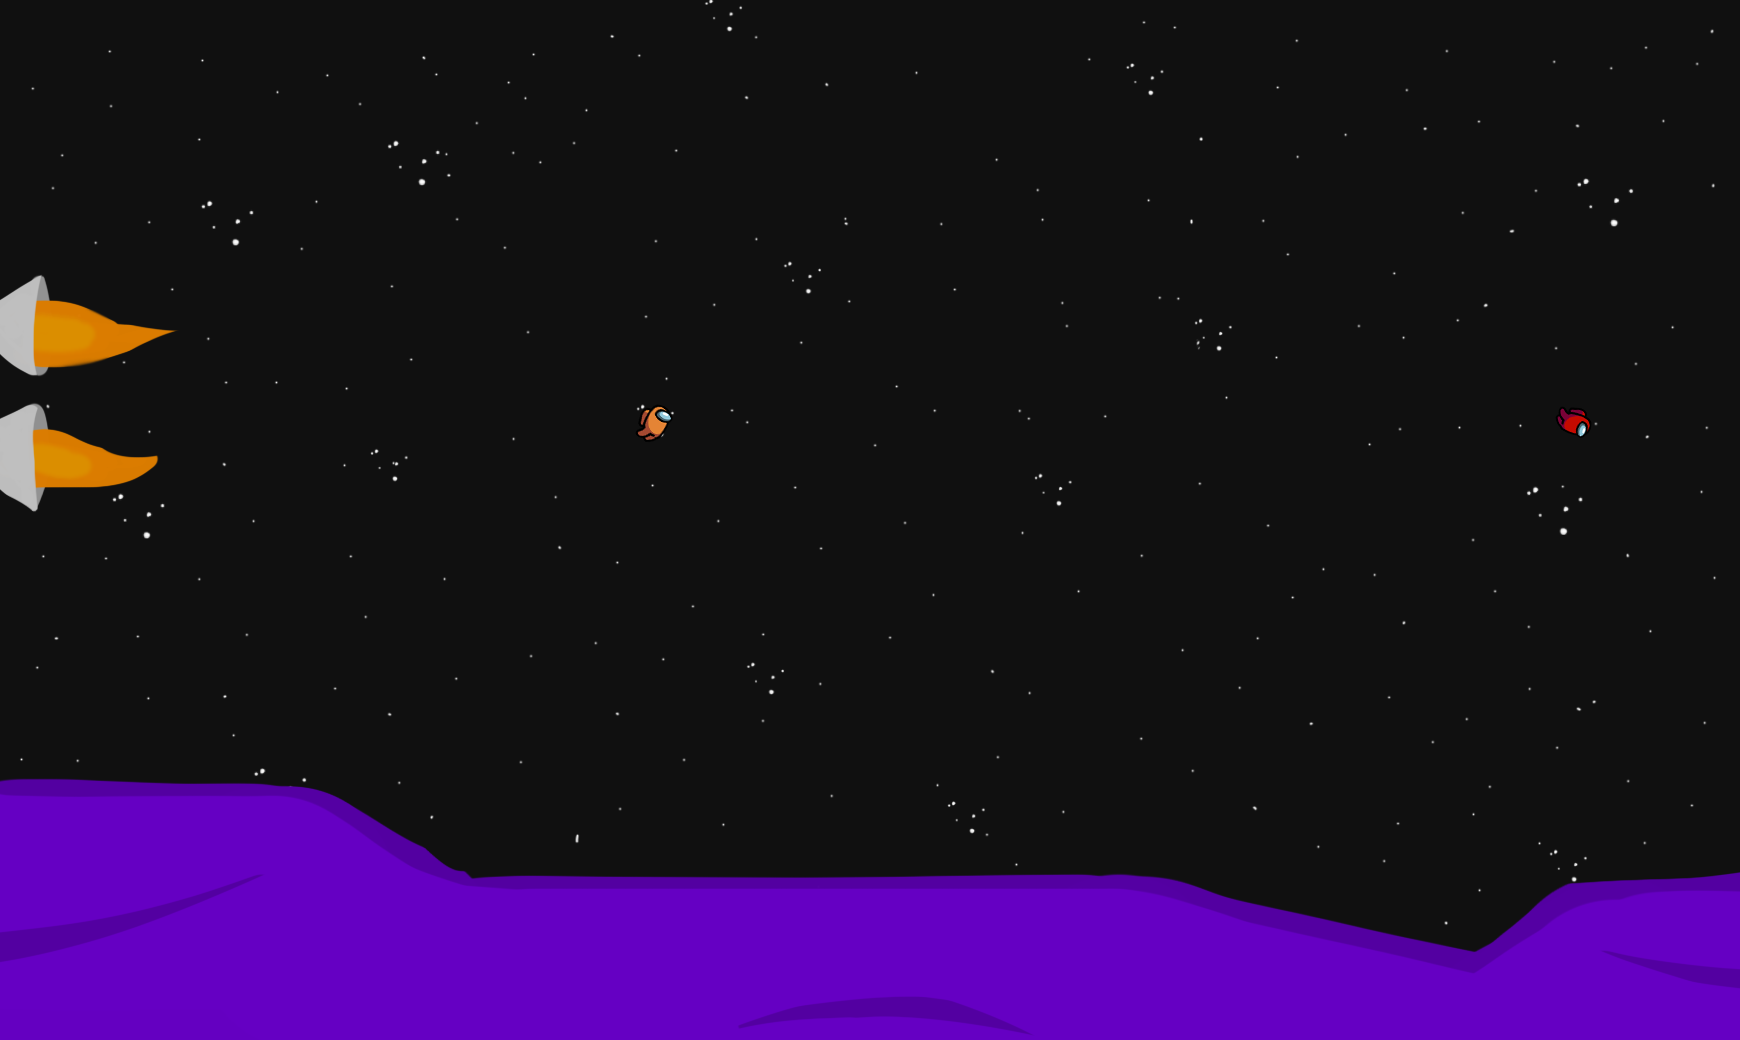
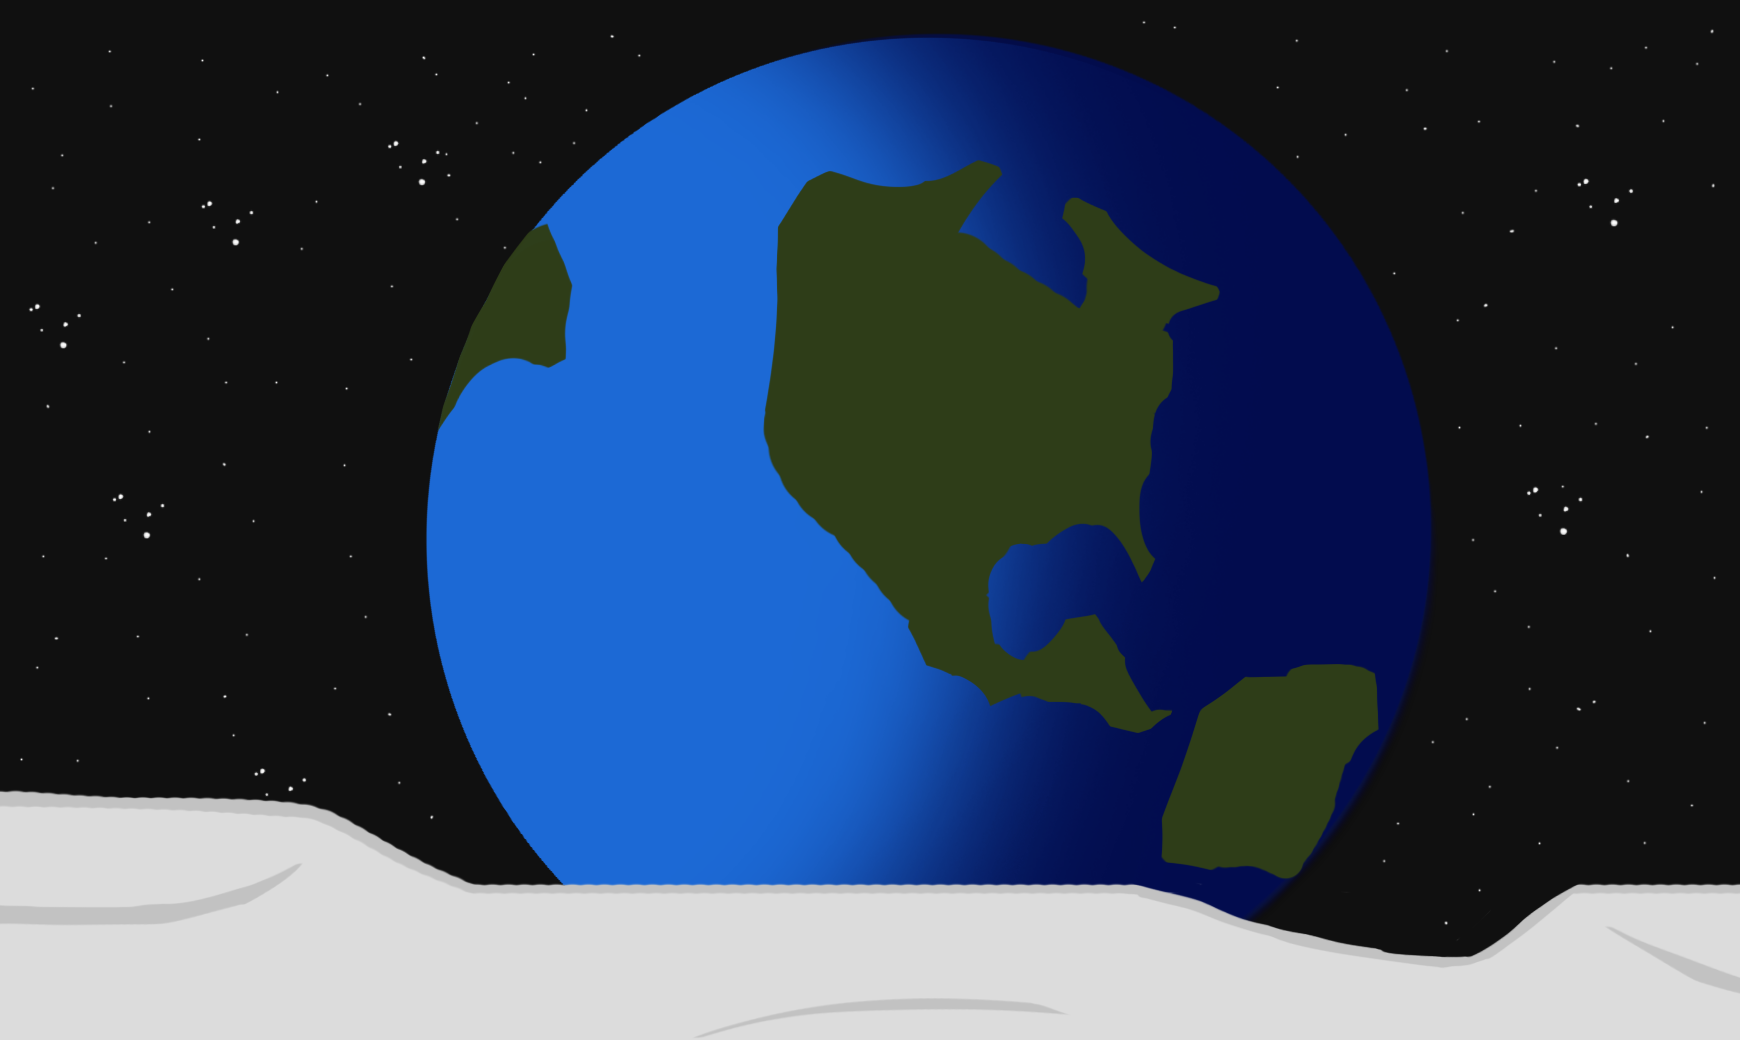
Ping pong
it pings and it bangs

diff --git a/js/level002.js b/js/level002.js
@@ -42,7 +42,7 @@ class Laser extends Phaser.Physics.Arcade.Sprite {
 		this.setActive(true);
 		this.setVisible(true);
 
-		this.setVelocityY(-2000);
+		this.setVelocityY(-2250);
         this.setScale(15);      
     }
     preUpdate(time, delta) {
@@ -56,11 +56,11 @@ class Laser extends Phaser.Physics.Arcade.Sprite {
 		}
 	}
 }
-export class Level001 extends Phaser.Scene {
+export class Level002 extends Phaser.Scene {
     constructor() {
-        super('Level001');
+        super('Level002');
         this.laserLimit = 0;
-        this.meteorScore = 0;
+        this.meteorsScore2 = 0;
 
         this.laserGroup;
     }
@@ -70,7 +70,7 @@ export class Level001 extends Phaser.Scene {
     }
 
     create() {
-        this.add.image(0, 0, 'background').setOrigin(0).setScale(5);
+        this.add.image(0, 0, 'background2').setOrigin(0).setScale(5);
 
         this.meteors = this.physics.add.group();
 
@@ -220,56 +220,56 @@ export class Level001 extends Phaser.Scene {
         meteors1333.destroy();
         laserGroup.destroy();
         console.log("7");
-        this.meteorScore++;
+        this.meteorsScore2++;
     }
     laserHitMeteors23333(laserGroup, meteors23333){
         this.laserLimit = 0; 
         meteors23333.destroy();
         laserGroup.destroy();
         console.log("6");
-        this.meteorScore++;
+        this.meteorsScore2++;
     }
     laserHitMeteors333(laserGroup, meteors333){
         this.laserLimit = 0; 
         meteors333.destroy();
         laserGroup.destroy();
         console.log("5");
-        this.meteorScore++;
+        this.meteorsScore2++;
     }
     laserHitMeteors3333(laserGroup, meteors3333){
         this.laserLimit = 0; 
         meteors3333.destroy();
         laserGroup.destroy();
         console.log("4");
-        this.meteorScore++;
+        this.meteorsScore2++;
     }
     laserHitMeteors3(laserGroup, meteors3){
         this.laserLimit = 0; 
         meteors3.destroy();
         laserGroup.destroy();
         console.log("3");
-        this.meteorScore++;
+        this.meteorsScore2++;
     }
     laserHitMeteors33(laserGroup, meteors33){
         //COUNT NUMBER UNTIL WIN YES
         this.laserLimit = 0; 
         meteors33.destroy();
         laserGroup.destroy();
-        this.meteorScore++;
+        this.meteorsScore2++;
     }
     laserHitMeteors533(laserGroup, meteors533){
         this.laserLimit = 0; 
         meteors533.destroy();
         laserGroup.destroy();
         console.log("2");
-        this.meteorScore++;
+        this.meteorsScore2++;
     }
     laserHitMeteors4433(laserGroup, meteors433){
         this.laserLimit = 0; 
         meteors433.destroy();
         laserGroup.destroy();
         console.log("1");
-        this.meteorScore++;
+        this.meteorsScore2++;
     }
 
     laserHitMeteors13333(laserGroup, meteors13333){
@@ -277,9 +277,8 @@ export class Level001 extends Phaser.Scene {
         meteors13333.destroy();
         laserGroup.destroy();
         console.log("8");
-        this.meteorScore++;
+        this.meteorsScore2++;
     }
-    
     /////
     //CONGRATS YOU MADE IT ALIVE
     /////
@@ -290,10 +289,9 @@ export class Level001 extends Phaser.Scene {
             this.shootLaser();
         }
 
-        console.log(+ this.meteorScore);
-        if (this.meteorScore >= 8)
+        if (this.meteorsScore2 >= 8)
         {
-            this.scene.start('Level002');
+            this.scene.start('Level003');
         }
     }
     shootLaser() {

diff --git a/js/level003.js b/js/level003.js
@@ -42,7 +42,7 @@ class Laser extends Phaser.Physics.Arcade.Sprite {
 		this.setActive(true);
 		this.setVisible(true);
 
-		this.setVelocityY(-2000);
+		this.setVelocityY(-2250);
         this.setScale(15);      
     }
     preUpdate(time, delta) {
@@ -56,11 +56,10 @@ class Laser extends Phaser.Physics.Arcade.Sprite {
 		}
 	}
 }
-export class Level001 extends Phaser.Scene {
+export class Level003 extends Phaser.Scene {
     constructor() {
-        super('Level001');
+        super('Level003');
         this.laserLimit = 0;
-        this.meteorScore = 0;
 
         this.laserGroup;
     }
@@ -70,7 +69,7 @@ export class Level001 extends Phaser.Scene {
     }
 
     create() {
-        this.add.image(0, 0, 'background').setOrigin(0).setScale(5);
+        this.add.image(0, 0, 'background3').setOrigin(0).setScale(5);
 
         this.meteors = this.physics.add.group();
 
@@ -220,56 +219,48 @@ export class Level001 extends Phaser.Scene {
         meteors1333.destroy();
         laserGroup.destroy();
         console.log("7");
-        this.meteorScore++;
     }
     laserHitMeteors23333(laserGroup, meteors23333){
         this.laserLimit = 0; 
         meteors23333.destroy();
         laserGroup.destroy();
         console.log("6");
-        this.meteorScore++;
     }
     laserHitMeteors333(laserGroup, meteors333){
         this.laserLimit = 0; 
         meteors333.destroy();
         laserGroup.destroy();
         console.log("5");
-        this.meteorScore++;
     }
     laserHitMeteors3333(laserGroup, meteors3333){
         this.laserLimit = 0; 
         meteors3333.destroy();
         laserGroup.destroy();
         console.log("4");
-        this.meteorScore++;
     }
     laserHitMeteors3(laserGroup, meteors3){
         this.laserLimit = 0; 
         meteors3.destroy();
         laserGroup.destroy();
         console.log("3");
-        this.meteorScore++;
     }
     laserHitMeteors33(laserGroup, meteors33){
         //COUNT NUMBER UNTIL WIN YES
         this.laserLimit = 0; 
         meteors33.destroy();
         laserGroup.destroy();
-        this.meteorScore++;
     }
     laserHitMeteors533(laserGroup, meteors533){
         this.laserLimit = 0; 
         meteors533.destroy();
         laserGroup.destroy();
         console.log("2");
-        this.meteorScore++;
     }
     laserHitMeteors4433(laserGroup, meteors433){
         this.laserLimit = 0; 
         meteors433.destroy();
         laserGroup.destroy();
         console.log("1");
-        this.meteorScore++;
     }
 
     laserHitMeteors13333(laserGroup, meteors13333){
@@ -277,9 +268,7 @@ export class Level001 extends Phaser.Scene {
         meteors13333.destroy();
         laserGroup.destroy();
         console.log("8");
-        this.meteorScore++;
     }
-    
     /////
     //CONGRATS YOU MADE IT ALIVE
     /////
@@ -288,12 +277,6 @@ export class Level001 extends Phaser.Scene {
 
         if(this.controls.space.isDown) {
             this.shootLaser();
-        }
-
-        console.log(+ this.meteorScore);
-        if (this.meteorScore >= 8)
-        {
-            this.scene.start('Level002');
         }
     }
     shootLaser() {

diff --git a/js/game.js b/js/game.js
@@ -1,4 +1,6 @@
 import { Level001 } from "./level001.js";
+import { Level002 } from "./level002.js";
+import { Level003 } from "./level003.js";
 import { LoadScene } from "./loadscene.js";
 
 const config = {
@@ -7,7 +9,7 @@ const config = {
     type: Phaser.AUTO,
     parent: 'game-canvas',
     backgroundColor: '#ffff',
-    scene: [LoadScene, Level001],
+    scene: [LoadScene, Level001, Level002, Level003],
     physics: {
         default: 'arcade',
         arcade: {

diff --git a/js/loadscene.js b/js/loadscene.js
@@ -6,6 +6,8 @@ export class LoadScene extends Phaser.Scene {
     preload() {
         
         this.load.image('background', './images/bg.png');
+        this.load.image('background2', './images/bg2.png');
+        this.load.image('background3', './images/bg3.png');
 
         this.load.spritesheet('player', './images/player.png', {
             frameWidth: 256,
